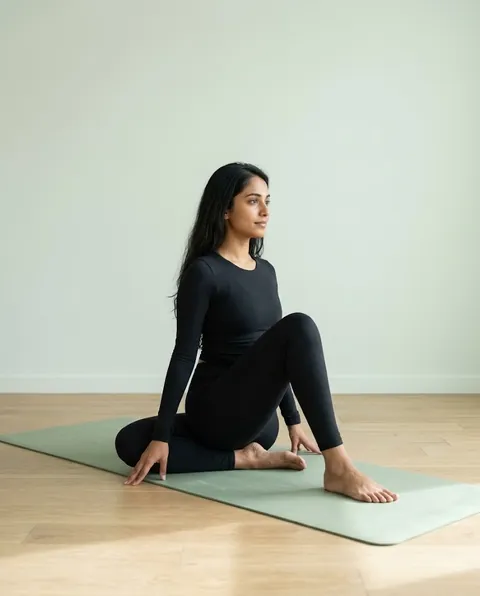
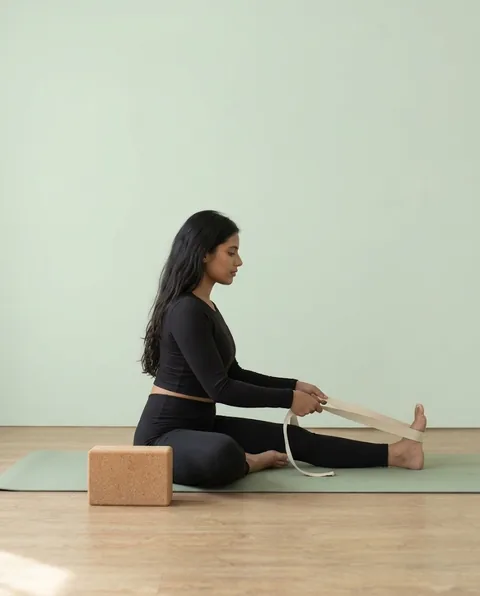
Show props in the Mobility Yoga photo

diff --git a/src/constants/classes.ts b/src/constants/classes.ts
@@ -31,7 +31,7 @@ export const PRACTICE_CLASSES: PracticeClass[] = [
   { name: 'Vinyasa', slug: 'vinyasa', line: 'Breath-led flow · 60 min', contactInterest: 'Vinyasa Yoga', image: 'vinyasa', alt: 'Yoga teacher in a low lunge on a mat, one arm reaching up' },
   { name: 'Ashtanga', slug: 'ashtanga', line: 'A set sequence, steady breath · 60 min', contactInterest: 'Ashtanga Yoga', image: 'ashtanga', alt: 'Yoga teacher seated on a mat in a twist, one knee drawn up' },
   { name: 'Spine Healing', slug: 'spine-healing', line: 'Back care and release · 60 min', contactInterest: 'Spine Healing', image: 'spine-healing', alt: 'Yoga teacher on all fours in a gentle cat stretch' },
-  { name: 'Mobility Yoga', slug: 'mobility-yoga', line: 'Joints and everyday ease · 60 min', contactInterest: 'Mobility Yoga', image: 'mobility', alt: 'Yoga teacher seated in a hip mobility stretch' },
+  { name: 'Mobility Yoga', slug: 'mobility-yoga', line: 'Joints and everyday ease · 60 min', contactInterest: 'Mobility Yoga', image: 'mobility', alt: 'Yoga teacher seated on a mat with a strap around one foot, a cork block beside her' },
   { name: 'Yin Yoga', slug: 'yin-yoga', line: 'Long, quiet holds · 75 min', contactInterest: 'Yin Yoga', image: 'yin', alt: 'Yoga teacher resting in a seated forward fold' },
   { name: 'Prenatal & Postnatal', slug: 'prenatal-postnatal', line: 'Before and after birth · 60 min', contactInterest: 'Prenatal & Postnatal', image: 'prenatal-postnatal', alt: 'Pregnant woman seated cross-legged beside a bolster, hand on her belly' },
   // Aerial is private sessions only, never a group class on the schedule.
